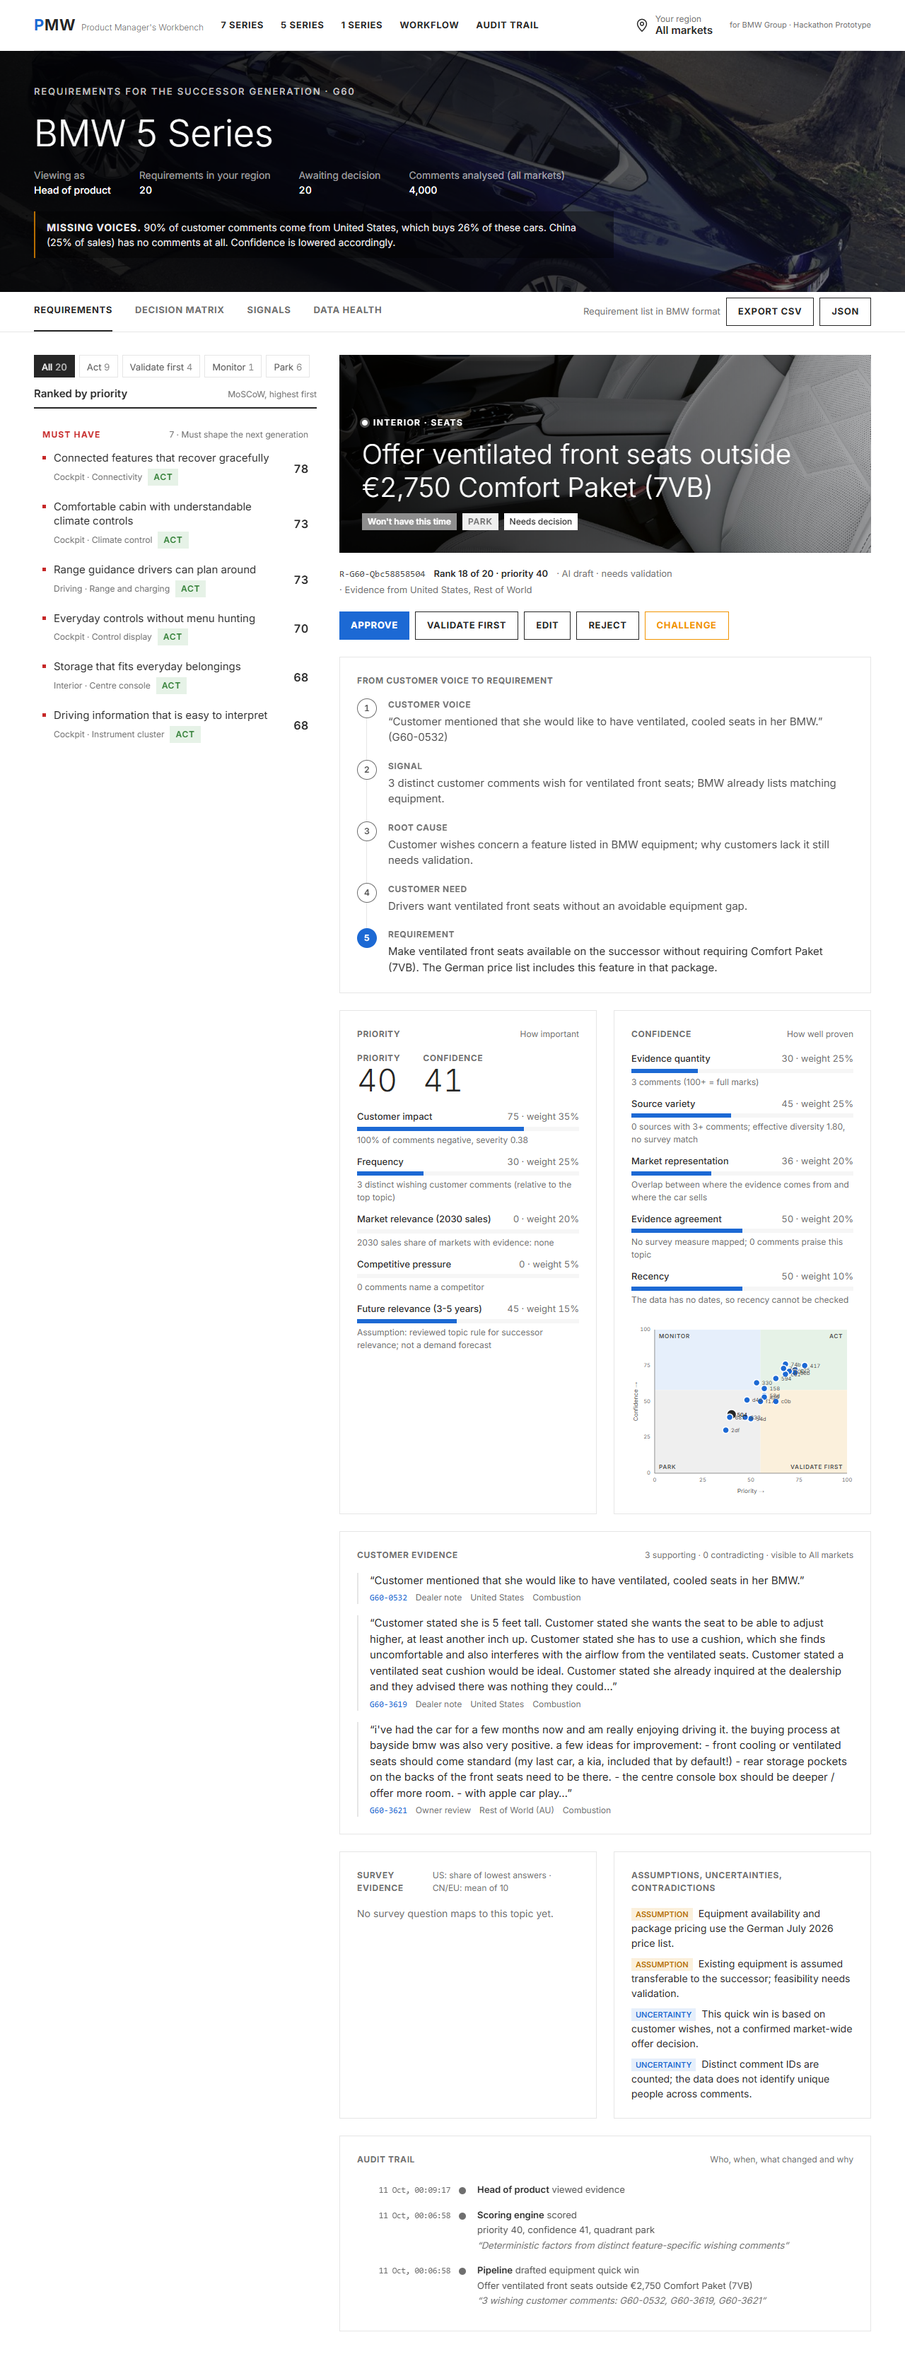
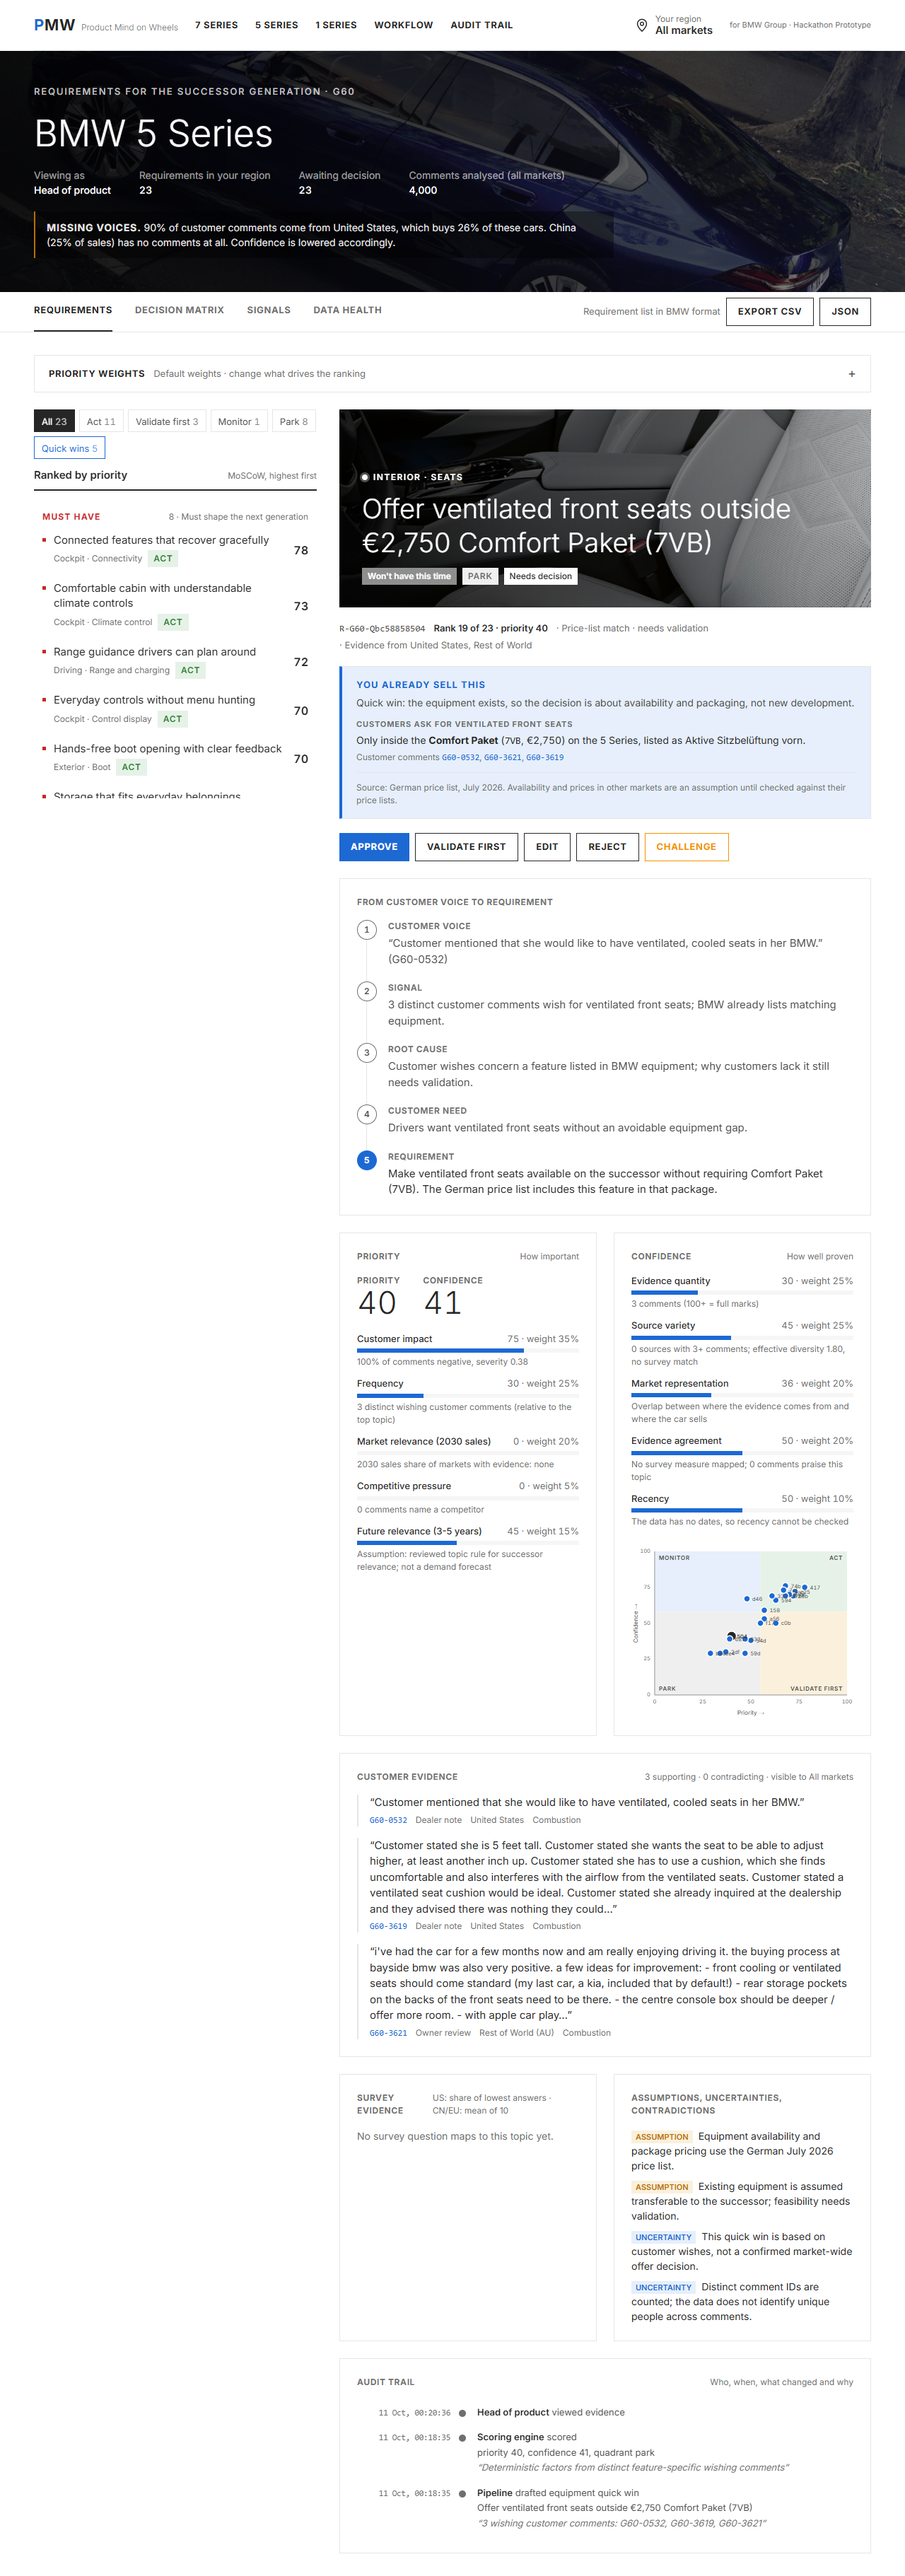
Finalize Product Mind on Wheels integration and branding

Changed region(s): [[0.0, 0.0, 1.0, 0.9369], [0.4062, 0.9057, 0.8438, 0.9994], [0.3125, 0.2811, 0.3438, 0.3123]]

diff --git a/web/app/page.tsx b/web/app/page.tsx
@@ -74,7 +74,7 @@ export default async function Home() {
         <div className="mx-auto max-w-[720px] text-center">
           <h1 className="headline text-[32px] sm:text-[40px]">What should the next generation offer?</h1>
           <p className="mt-4 text-[17px] text-ink-2">
-            PMW, the Product Manager&apos;s Workbench, turns customer evidence into requirements a product manager can defend:
+            Product Mind on Wheels (PMW) turns customer evidence into requirements a product manager can defend:
             every claim links to its source, and every decision stays with a person.
           </p>
         </div>
@@ -95,7 +95,7 @@ export default async function Home() {
 
       <footer className="border-t border-line">
         <div className="container-x flex flex-wrap justify-between gap-4 py-8 text-[13px] text-ink-3">
-          <span>PMW · Product Manager&apos;s Workbench · EHL Grand Finale 2026 · BMW challenge prototype</span>
+          <span>PMW · Product Mind on Wheels · EHL Grand Finale 2026 · BMW challenge prototype</span>
           <span>Vehicle photography from the BMW price lists provided for the hackathon.</span>
         </div>
       </footer>

diff --git a/web/app/layout.tsx b/web/app/layout.tsx
@@ -4,7 +4,7 @@ import "./globals.css";
 // Font: Albert Sans (stand-in for BMW Type Next), self-hosted in public/fonts, see globals.css.
 // No analytics, no third-party requests. Search engines are told not to index (also robots.ts and next.config headers).
 export const metadata: Metadata = {
-  title: "PMW · Product Manager's Workbench",
+  title: "PMW · Product Mind on Wheels",
   description: "Evidence-backed requirements for the next vehicle generation, with the product manager in control.",
   robots: {
     index: false,

diff --git a/web/components/Header.tsx b/web/components/Header.tsx
@@ -10,7 +10,7 @@ export function Wordmark() {
       <span className="text-[22px] font-bold uppercase tracking-[0.02em] leading-none">
         <span className="pmw-p text-blue">P</span><span>MW</span>
       </span>
-      <span className="hidden text-[12px] font-light text-ink-3 sm:inline">Product Manager&apos;s Workbench</span>
+      <span className="hidden text-[12px] font-light text-ink-3 sm:inline">Product Mind on Wheels</span>
     </Link>
   );
 }

diff --git a/README.md b/README.md
@@ -1,4 +1,4 @@
-# Product Minds on Wheels (PMW)
+# Product Mind on Wheels (PMW)
 
 AI decision support for BMW product managers: from customer evidence to traceable, prioritised requirements for
 the next vehicle generation, with the product manager deciding every step. EHL Grand Finale 2026, BMW track.
@@ -32,14 +32,22 @@ After pulling changes to `pipeline/pmw/db.py`, rebuild: the build drops and recr
 Equipment matches stay within the feature's allowed topics. Only `Wants` comments support option, package or
 cross-vehicle offers; complaints about standard equipment are marked `standard_but_failing`.
 Each vehicle keeps its 15 signal requirements plus up to five quick wins, ranked by distinct wishing comment IDs.
+G60 and G70 also include their three strongest in-scope China/Europe survey conflicts, with explicit market values,
+2025 sales shares and limited evidence confidence. These cards do not invent customer comments.
 Quick wins name the feature and option/package code or source vehicle, and use their own comments and scores.
 Comment IDs are the available counting unit; the source data does not identify unique people across comments.
 
 Schema update: `equipment_matches.feature` identifies the feature; the placeholder `equipment.trim` column was
 removed. Rebuild the database before running the updated app.
 
+Phase 2 adds `signal_feedback` (full negative-comment membership for live approval coverage) and `feedback_scope`
+(readable text exclusions). Rebuild before using this branch. The async `happiness(viewer, vehicle)` gate function
+returns authorized markets only and `share: null` when evidence is missing; the meter UI can consume it.
+Implementation notes: [Happiness data](docs/HAPPINESS_DATA.md), [survey and scope](docs/SURVEY_AND_SCOPE.md),
+[photos](docs/REQUIREMENT_PHOTOS.md), and [pitch data traps](docs/pitch/data-traps.md).
+
 Regression checks: `cd pipeline && uv run --extra llm python -m unittest discover -s tests -v`, then
-`cd ../web && node --test scripts/test-equipment-evidence.mjs scripts/test-score.mjs && npx tsc --noEmit && npm run build`.
+`cd ../web && node --test scripts/test-equipment-evidence.mjs scripts/test-happiness.mjs scripts/test-score.mjs && npx tsc --noEmit && npm run build`.
 Run `npm run test:e2e` after building; it uses a separate copy of the local database.
 
 **Priority display:** the list is grouped MoSCoW-style by priority score: Must have 65+, Should have 55+, Could have 45+,

diff --git a/docs/pitch/deck.md b/docs/pitch/deck.md
@@ -3,8 +3,7 @@
 BMW challenge "AI for Product Decision Making", EHL Grand Finale 2026. Pitch lead: Gokul.
 Demo click path: [demo-script.md](demo-script.md). Judge questions: [qa.md](qa.md).
 
-> **Name not final.** The app shows "PMW · Product Manager's Workbench"; older docs say "Product Minds on Wheels".
-> The team still has to confirm the final name before the slides are designed.
+> **Project name:** Product Mind on Wheels (PMW).
 
 **How to read this file.** One block per slide: title, the one message, what is on screen, what to say.
 Every number was checked against a fresh `uv run pmw build` of `main` (2381fb1) on 11 October 2026.
@@ -69,7 +68,7 @@ Verified:
 - Three cars, four markets: 1 Series, 5 Series, 7 Series · US, Europe, China, Rest of World
 
 **Speaker notes**
-PMW, the Product Manager's Workbench, reads all of BMW's files and builds this ladder for every requirement: what
+Product Mind on Wheels (PMW) reads all of BMW's files and builds this ladder for every requirement: what
 customers said, the pattern behind it, a root-cause hypothesis, the customer need and a testable requirement.
 Then two separate scores: how important, and how well proven. The product manager approves, edits, rejects or
 challenges. Every step lands in an audit trail. Let me show you.
